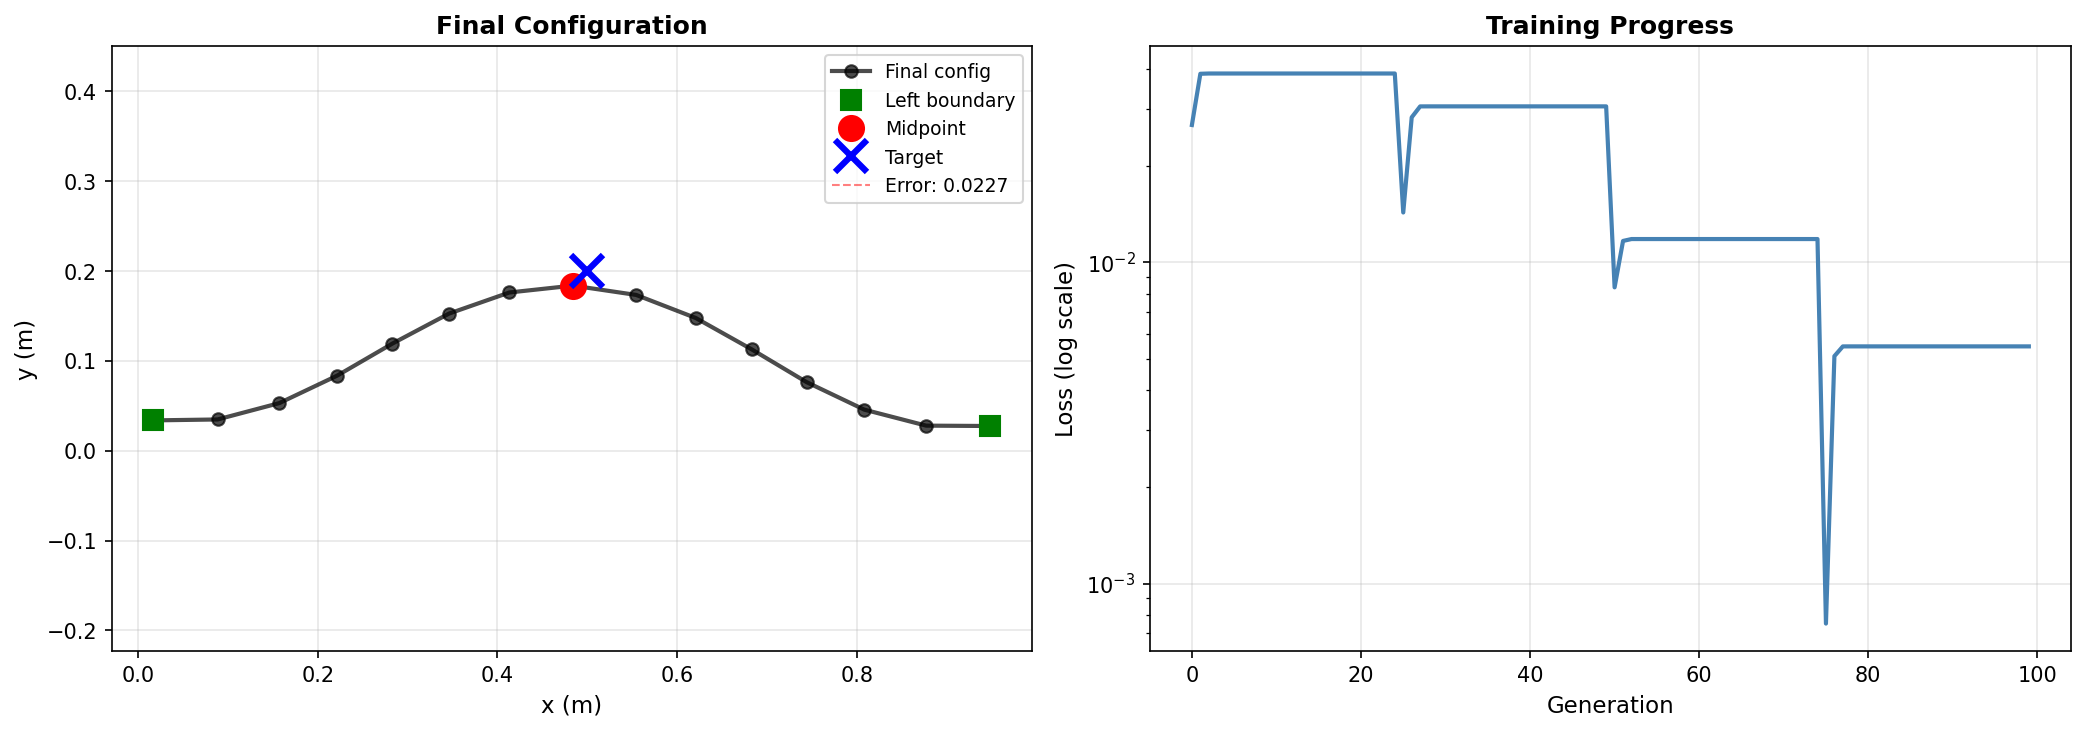
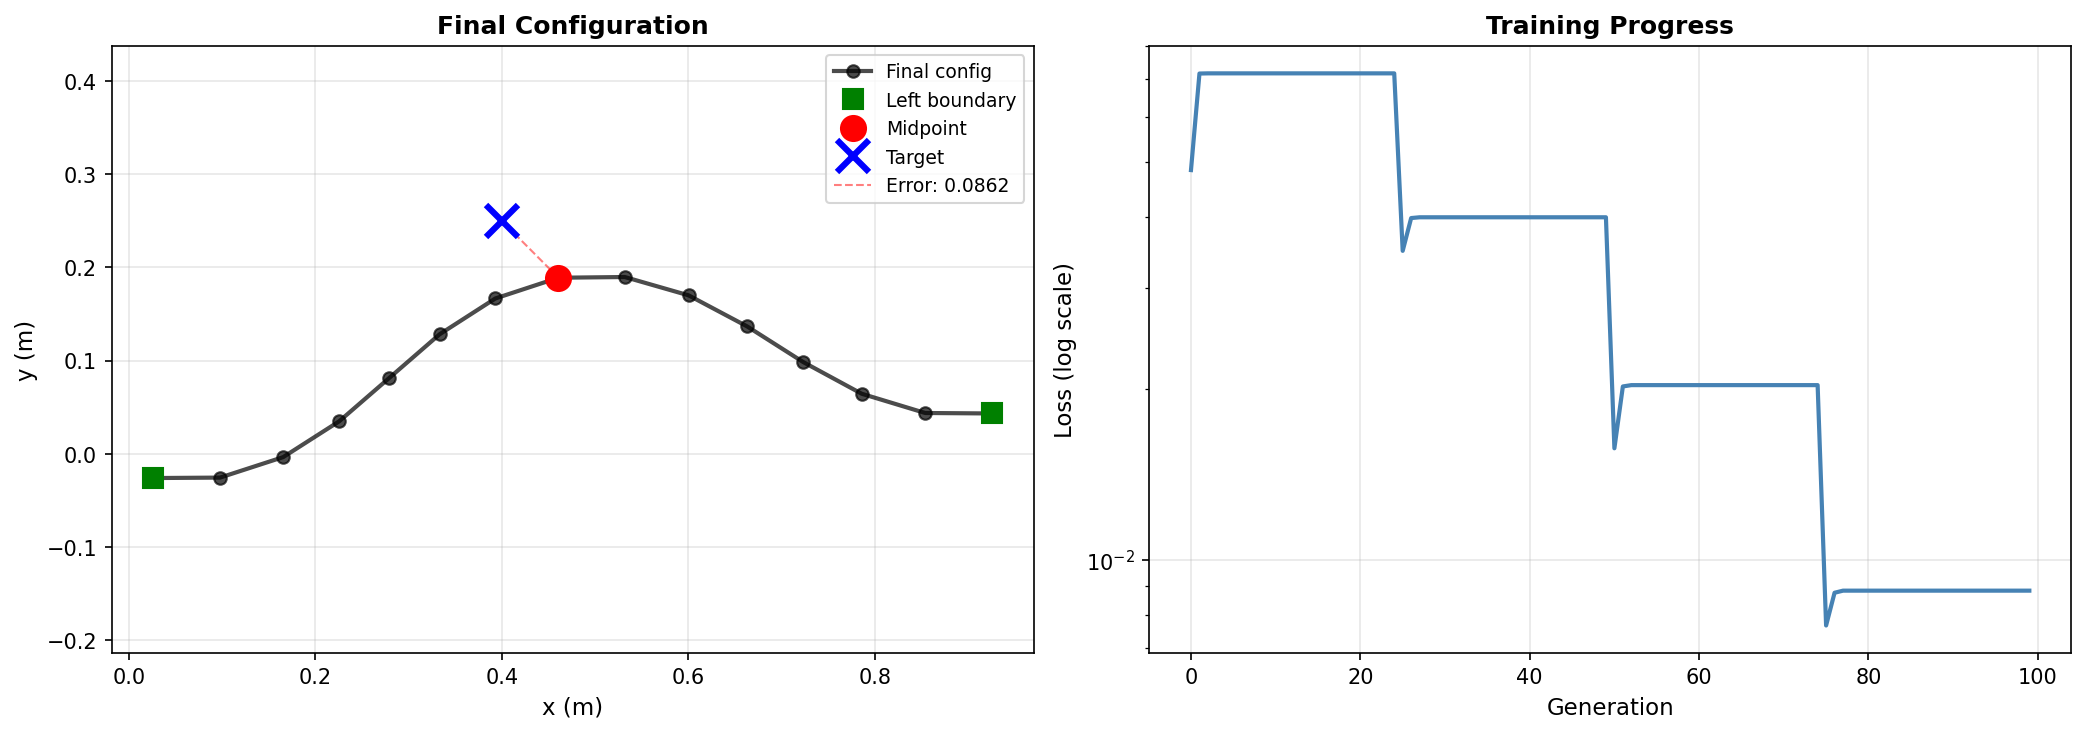
default

diff --git a/pre-process/config_processing.py b/pre-process/config_processing.py
@@ -171,8 +171,9 @@ def process_curve_configuration(image_path, real_width_cm, real_height_cm, targe
     
     return output_data
 
+if __name__ == "__main__":
 # Example configurations:
-# process_curve_configuration("config_1.png", 5.5, 20.5)
+    process_curve_configuration("config_1.png", 5.5, 20.5)
 # process_curve_configuration("config_2.png", 16.0, 13.0)
 # process_curve_configuration("config_3.png", 16.5, 5.5)
 # process_curve_configuration("config_4.png", 22.0, 3.0)

diff --git a/neural_control_simple.py b/neural_control_simple.py
@@ -295,7 +295,7 @@ class NeuralControlAgent:
         }
 
 
-def visualize_results(results, env, target_pos, save_path='/mnt/user-data/outputs'):
+def visualize_results(results, env, target_pos, save_path='img'):
     """Visualize results"""
     final_q = results['final_q']
     x_arr = final_q[::2]
